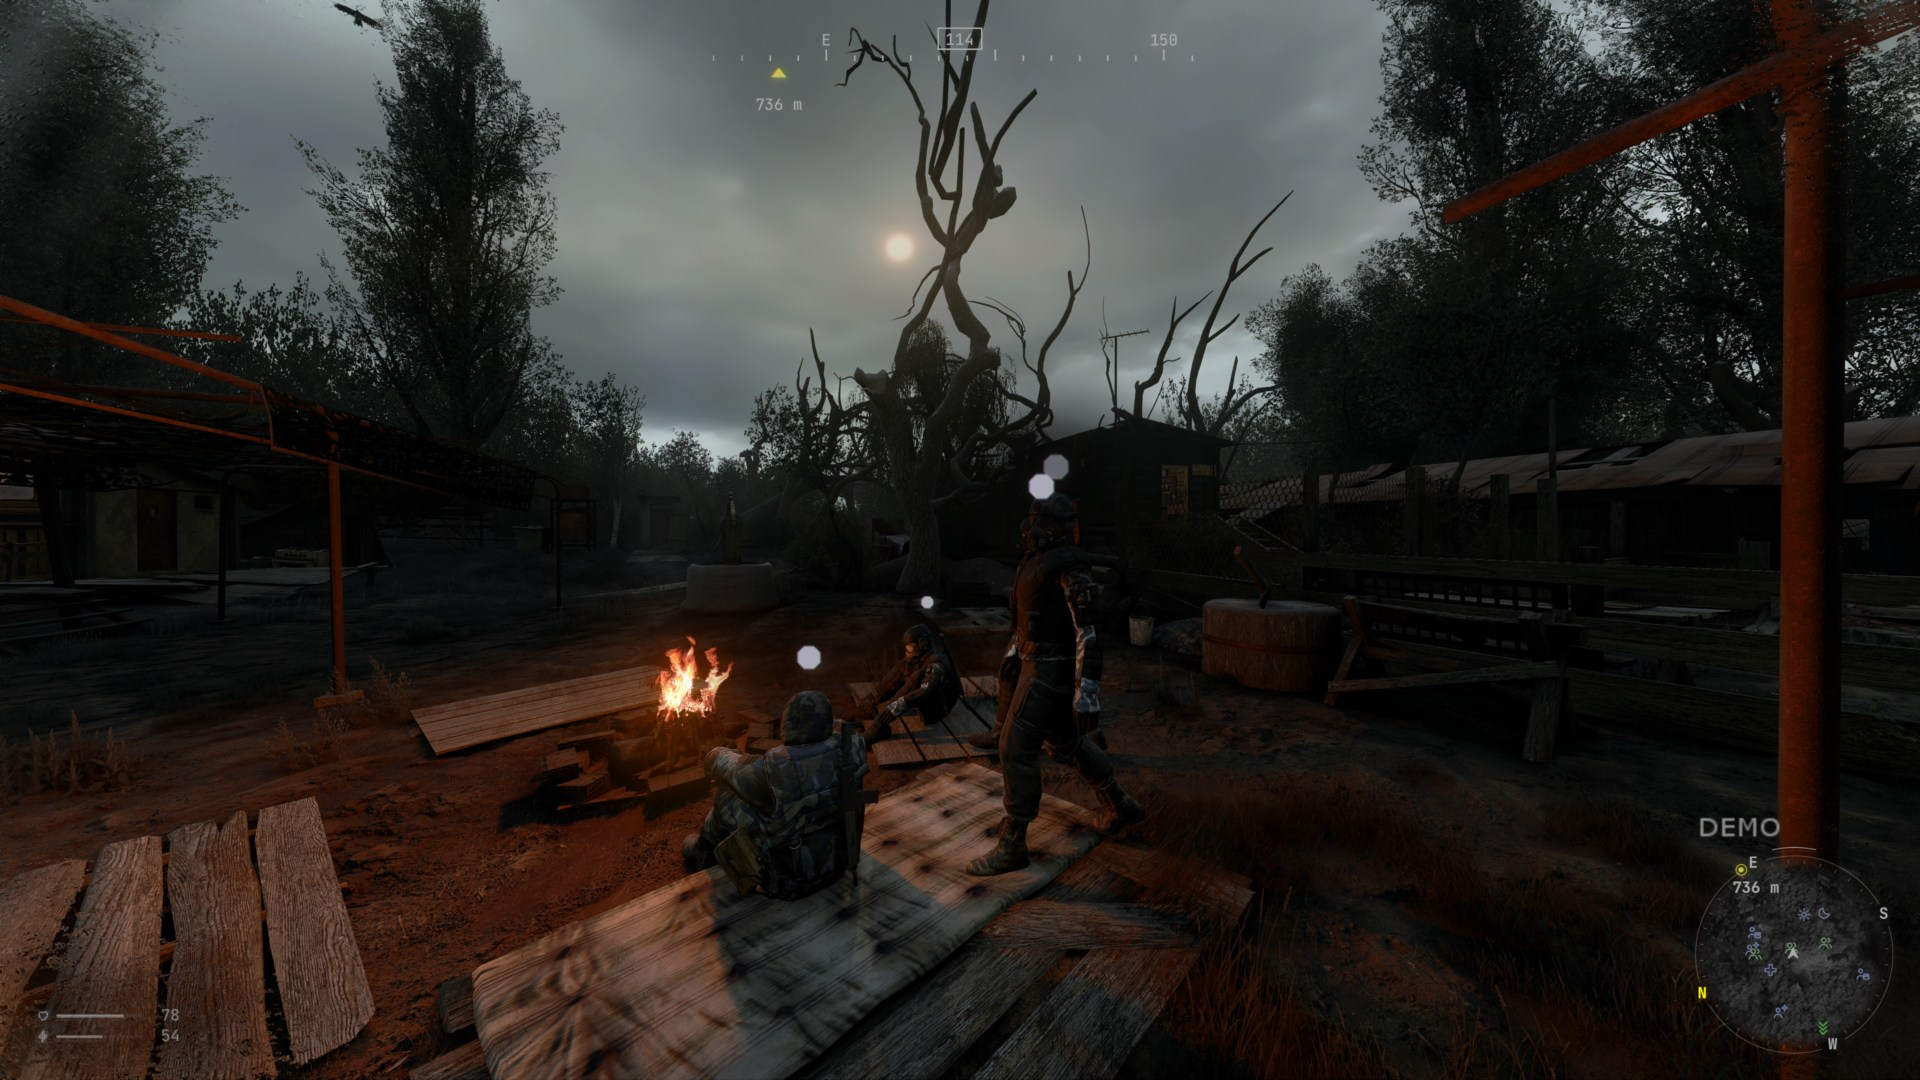
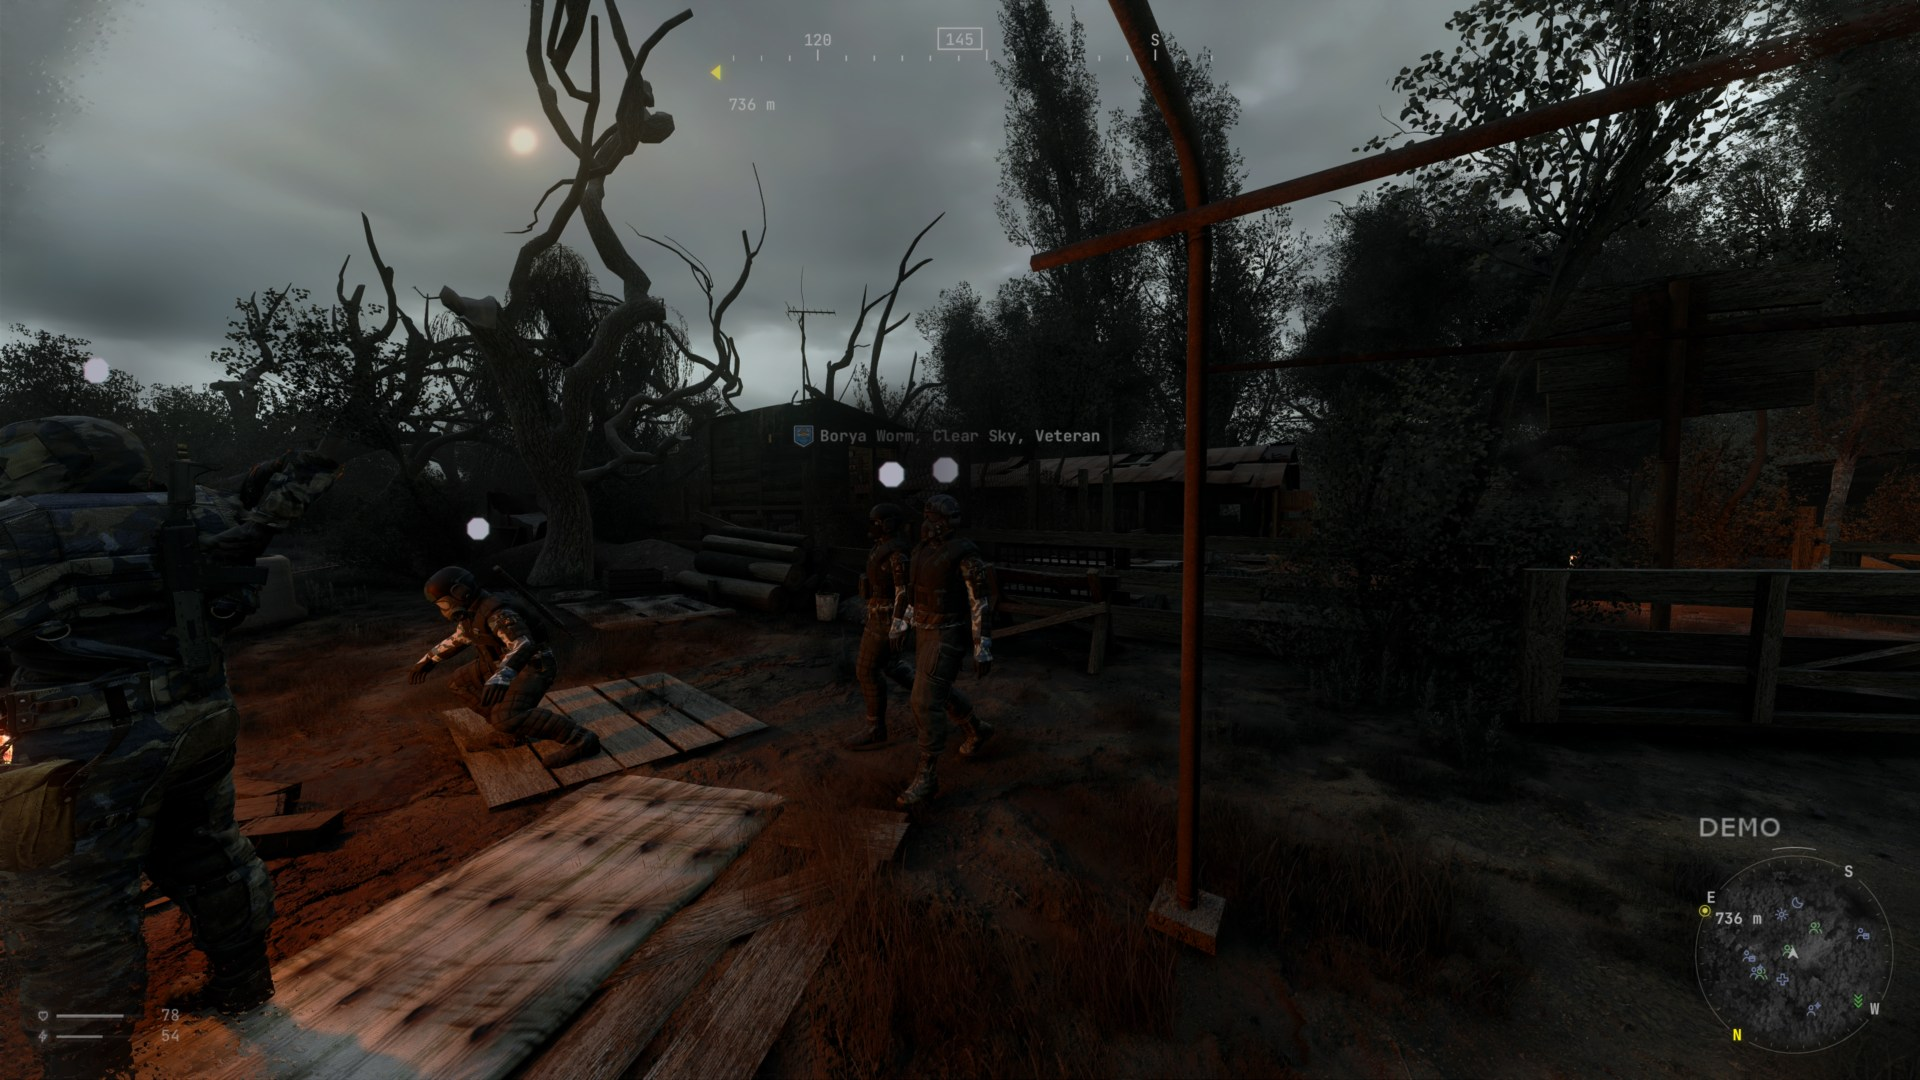
Manual: Gen 4 frame with its name tag; known issue corrected

diff --git a/docs/index.html b/docs/index.html
@@ -172,7 +172,7 @@
 </section>
 <section class="full">
   <h2>Gen 4, full frame</h2>
-  <p class="lead">Live scene at the campfire. Marks on every person in view and the minimap's marks coloured by kind. The name tag did not draw in this capture; under investigation.</p>
+  <p class="lead">Live scene, PBR build, 2026-11-06. The crosshair is on Borya Worm (Clear Sky): his name tag over him in the lighter Gen 4 ink, marks on the people in view, the minimap's marks coloured by kind.</p>
   <img src="img/full-g4.jpg" alt="">
 </section>
 
@@ -354,7 +354,7 @@
       <li><b>Binocular zoom</b>: wheel steps zoom only while raised; the view and lens are still changing.</li>
       <li><b>Parked</b>: visor cracks, fog, rain glow (engine stage); no weapons HUD.</li>
       <li><b>PBR</b>: one native crash at a wave test step, untraced.</li>
-      <li><b>Gen 4 name tag</b>: at Gen 4 the marks draw on everyone in view, but the name tag of the person under the crosshair may not draw (it does at Gen 2 and Gen 3). Under investigation.</li>
+      <li><b>Gen 4 name tag</b>. At Gen 4 the name tag of the person under the crosshair draws fainter than at Gen 2 and Gen 3 (the lighter Gen 4 look) and is easy to miss on a dark scene.</li>
     </ul>
     <ul>
       <li><b>Resolutions</b>: checked mostly at 4K.</li>
